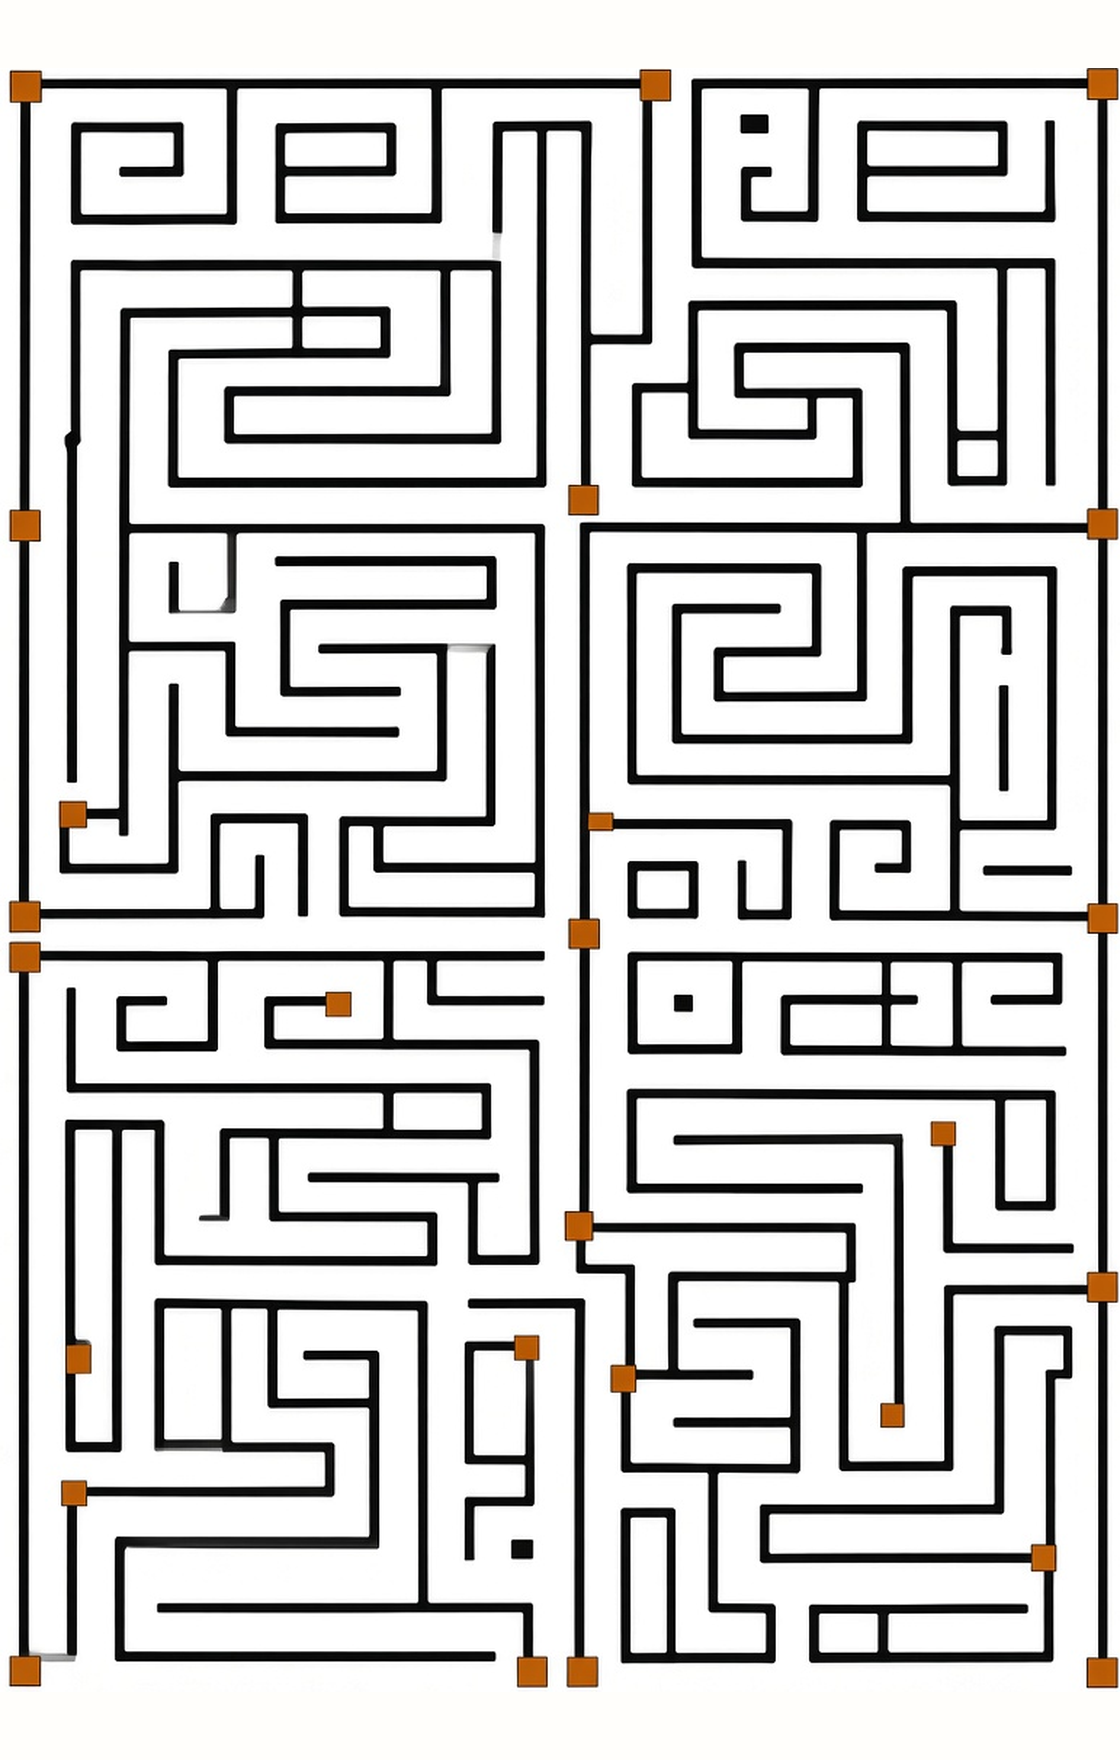
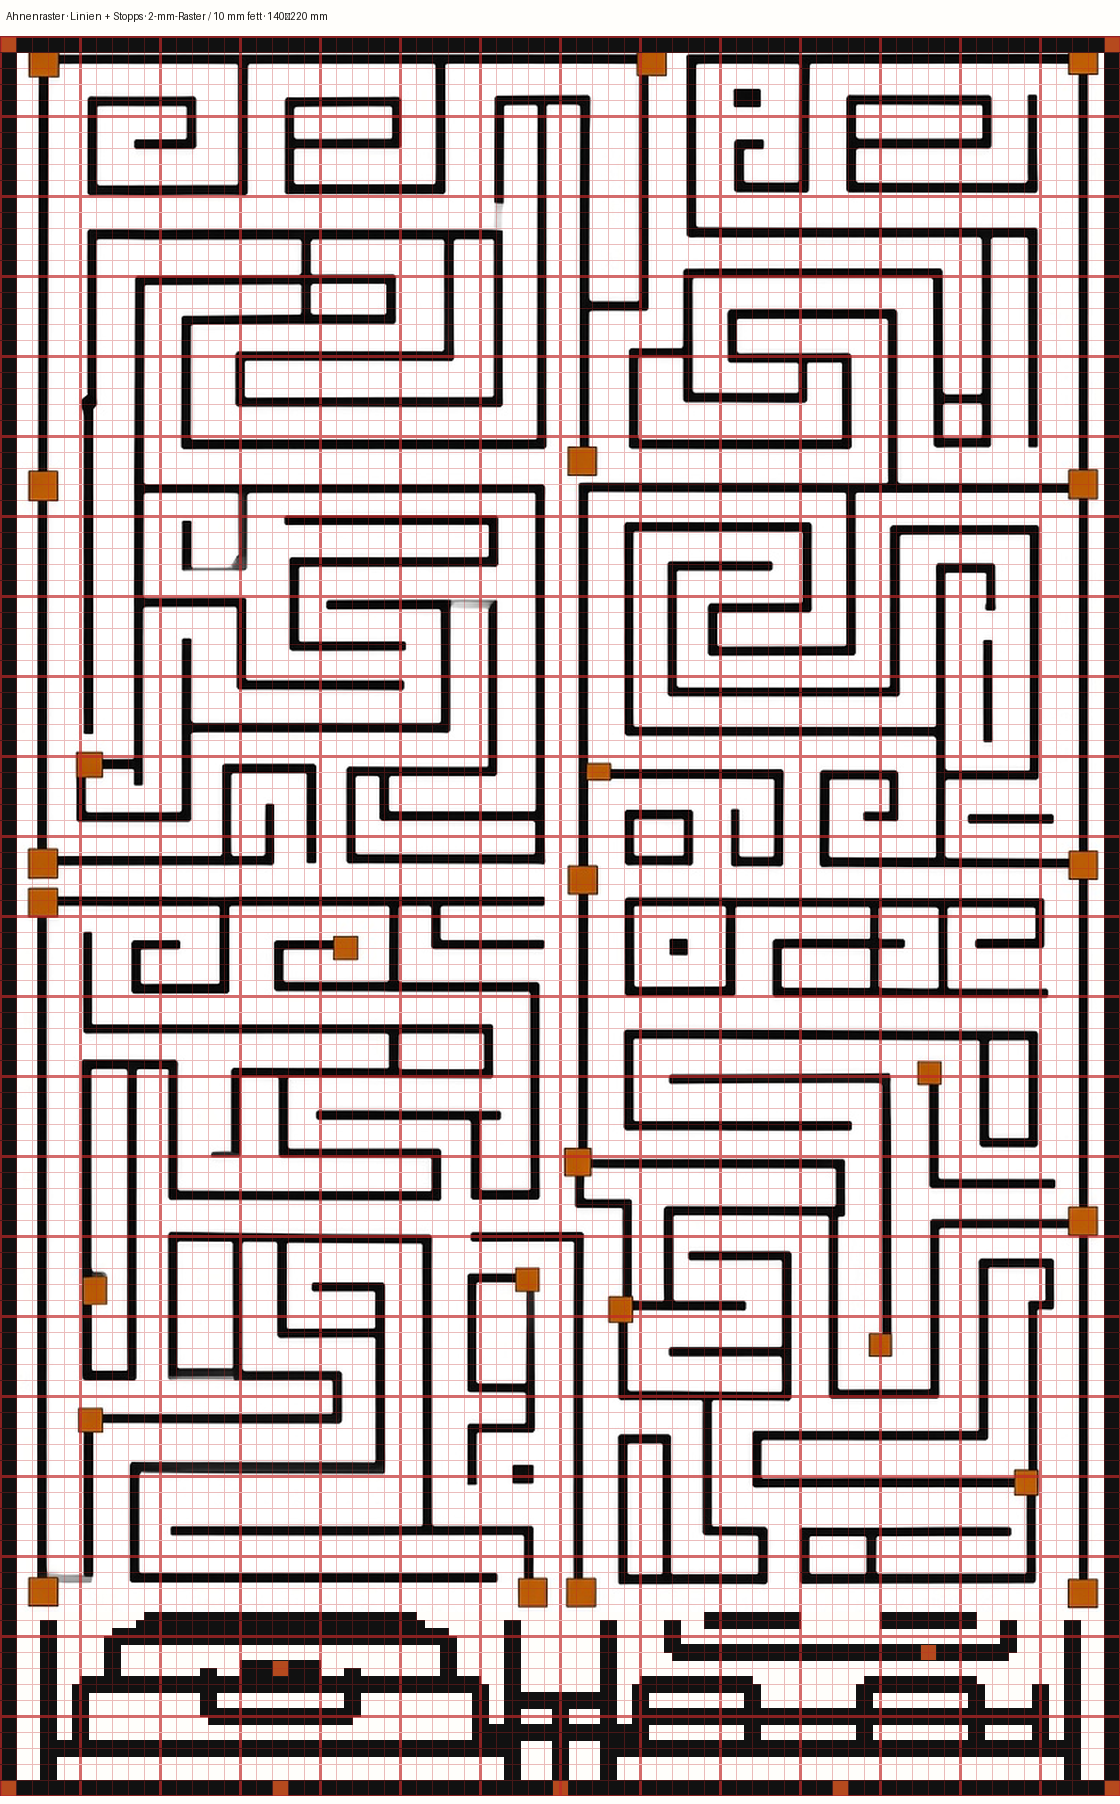
Ahnenraster: unten geschlossen + 2-/10-mm-Ausrichtungsraster
Linienzeichnung mit unterem Labyrinth-Abschluss und sichtbarem mm-Raster.

diff --git a/src/components/hundredGeneration/HundredGenerationAhnenrasterBlatt.tsx b/src/components/hundredGeneration/HundredGenerationAhnenrasterBlatt.tsx
@@ -117,7 +117,7 @@ export function HundredGenerationAhnenrasterBlatt({
               background: isPrint ? '#f7f4ef' : 'rgba(0,0,0,0.08)',
             }}
           >
-            Linien + Stopps · Schwarz = durchgehende Linie · Orange = Stopp · Platte H{' '}
+            Linien + Stopps · 2‑/10‑mm‑Raster · Orange = Stopp · Platte H{' '}
             {b.panelHoeheCm} · B {b.panelBreiteCm} cm
           </figcaption>
         </figure>

diff --git a/docs/DIALOG-STAND.md b/docs/DIALOG-STAND.md
@@ -1,11 +1,11 @@
 # Dialog-Stand
 
-**Was wir JETZT tun:** Ahnenraster – Linienzeichnung (durchgehende Linien + Stopps) prüfen.
+**Was wir JETZT tun:** Ahnenraster – Linien + Stopps + mm-Raster (unten geschlossen) prüfen.
 
-**Einordnung:** CNC pausiert. Erst Zeichnung mit Foto abgleichen; bei Abweichung korrigieren.
+**Einordnung:** CNC pausiert. Struktur freigegeben; unten ergänzt; 2-/10-mm-Raster sichtbar.
 
-**Nächster Schritt:** Georg: Vergleich Foto|Zeichnung anschauen – stimmen Linien und Stopps? Ja → weiter; Nein → sagen was falsch ist.
+**Nächster Schritt:** Georg: Vergleich nochmal – unten und Raster ok? Dann feinjustieren oder freigeben.
 
-**Letzter Stand:** 11.09.26 – Linien + Stopps Zeichnung + Vergleich; CNC pausiert. **Commit:** `d08039f8` ✅ **main**
+**Letzter Stand:** 11.09.26 – Unten geschlossen + Ausrichtungs-Raster. **Commit:** (nach Push)
 
 ---
